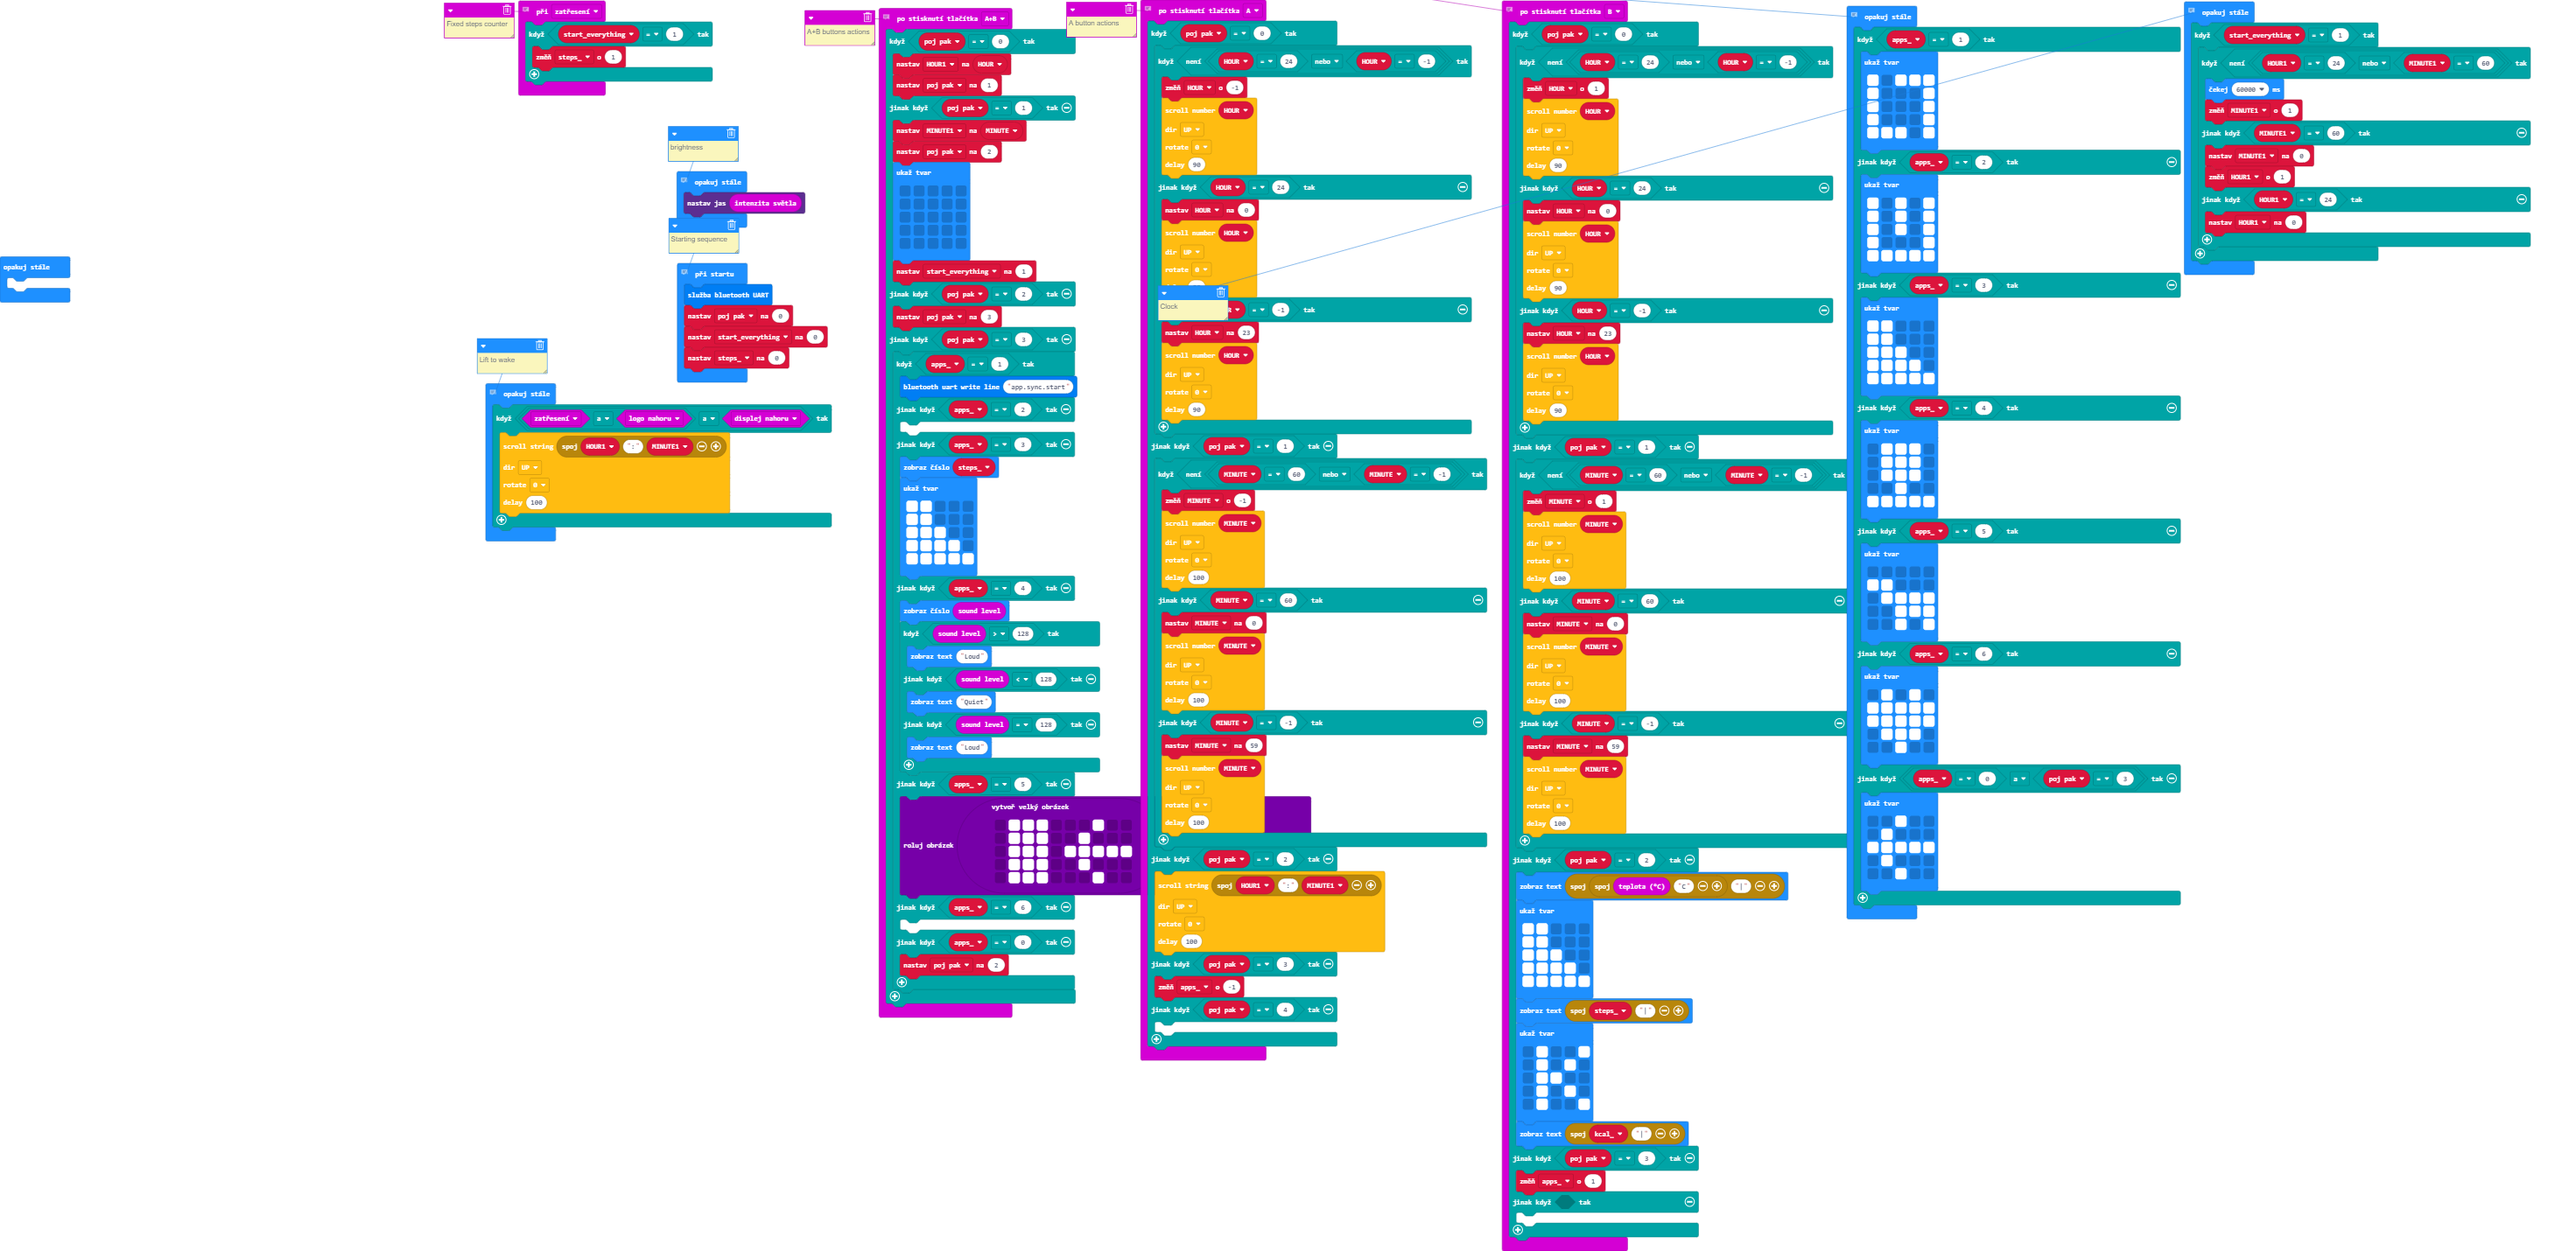
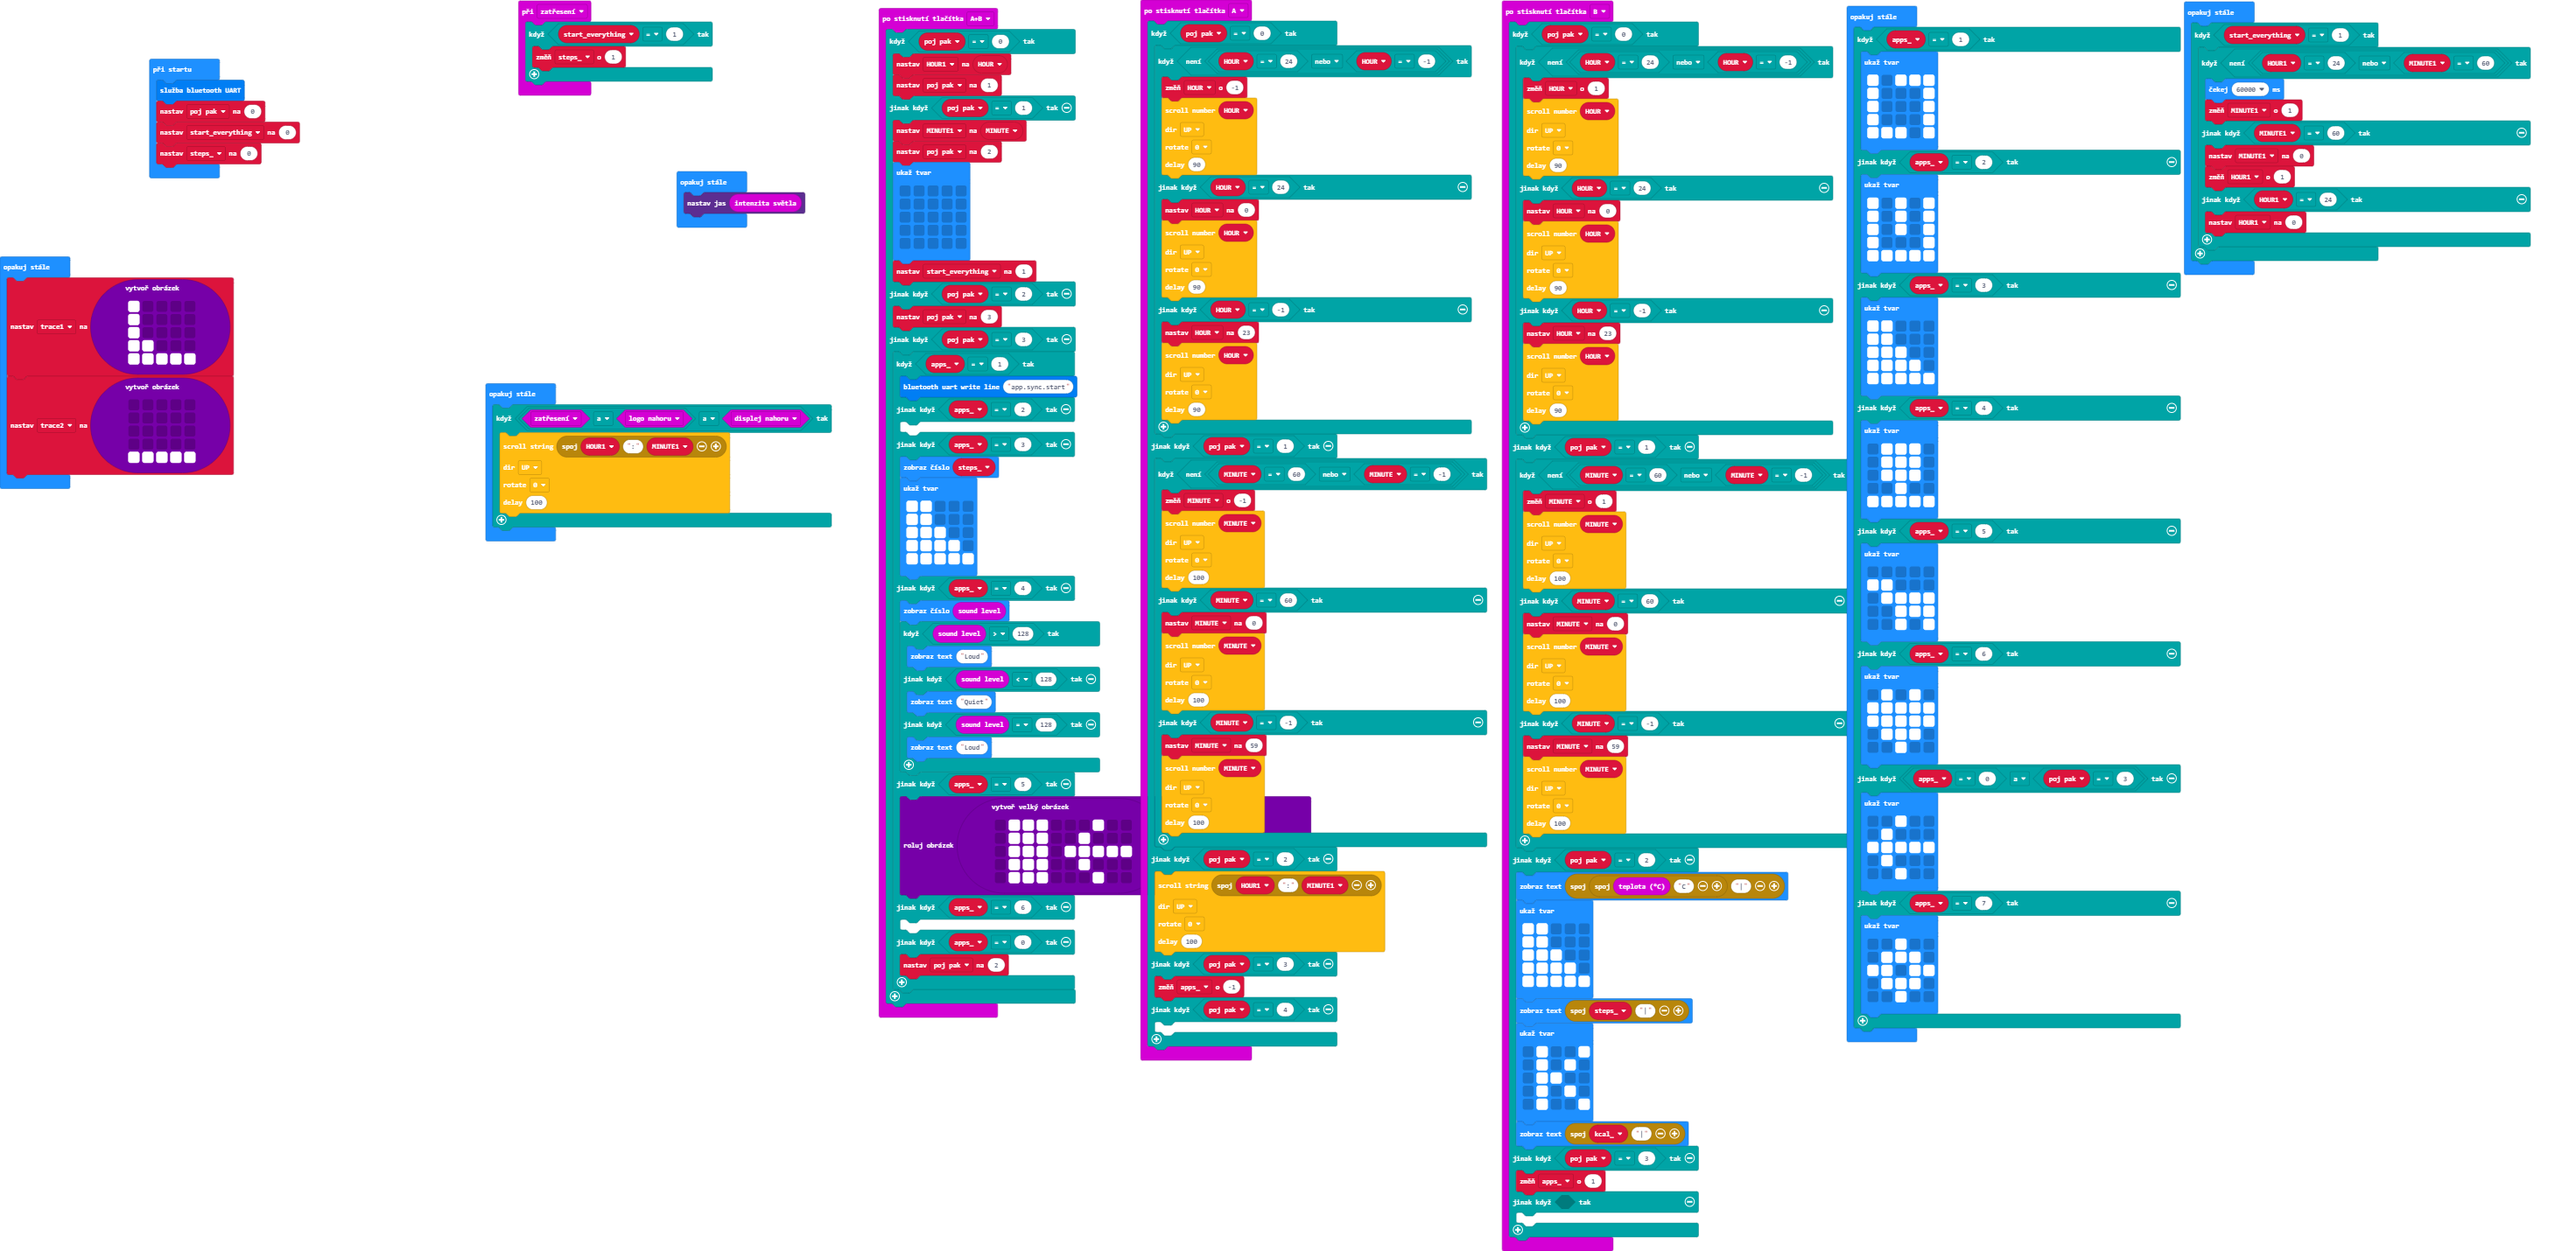
Aktualizovat main.blocks, main.ts

diff --git a/main.ts b/main.ts
@@ -1,4 +1,3 @@
-// A button actions
 input.onButtonPressed(Button.A, function () {
     if (poj_pak == 0) {
         if (!(HOUR == 24 || HOUR == -1)) {
@@ -65,7 +64,6 @@ input.onButtonPressed(Button.A, function () {
     	
     }
 })
-// A+B buttons actions
 input.onButtonPressed(Button.AB, function () {
     if (poj_pak == 0) {
         HOUR1 = HOUR
@@ -121,7 +119,6 @@ input.onButtonPressed(Button.AB, function () {
         }
     }
 })
-// B button actions
 input.onButtonPressed(Button.B, function () {
     if (poj_pak == 0) {
         if (!(HOUR == 24 || HOUR == -1)) {
@@ -200,13 +197,13 @@ input.onButtonPressed(Button.B, function () {
     	
     }
 })
-// Fixed steps counter
 input.onGesture(Gesture.Shake, function () {
     if (start_everything == 1) {
         steps_ += 1
     }
 })
-// Starting sequence
+let trace2: Image = null
+let trace1: Image = null
 let apps_ = 0
 let MINUTE1 = 0
 let HOUR1 = 0
@@ -219,7 +216,6 @@ bluetooth.startUartService()
 poj_pak = 0
 start_everything = 0
 steps_ = 0
-// App icons
 basic.forever(function () {
     if (apps_ == 1) {
         basic.showLeds(`
@@ -277,9 +273,16 @@ basic.forever(function () {
             . # . . .
             . . # . .
             `)
+    } else if (apps_ == 7) {
+        basic.showLeds(`
+            . . # . .
+            . # # # .
+            # # . # #
+            . # # # .
+            . . # . .
+            `)
     }
 })
-// Clock
 basic.forever(function () {
     if (start_everything == 1) {
         if (!(HOUR1 == 24 || MINUTE1 == 60)) {
@@ -293,14 +296,25 @@ basic.forever(function () {
         }
     }
 })
-// brightness 
 basic.forever(function () {
     led.setBrightness(input.lightLevel())
 })
 basic.forever(function () {
-	
+    trace1 = images.createImage(`
+        # . . . .
+        # . . . .
+        # . . . .
+        # # . . .
+        # # # # #
+        `)
+    trace2 = images.createImage(`
+        . . . . .
+        . . . . .
+        . . . . .
+        . . . . .
+        # # # # #
+        `)
 })
-// Lift to wake
 basic.forever(function () {
     if (input.isGesture(Gesture.Shake) && input.isGesture(Gesture.LogoUp) && input.isGesture(Gesture.ScreenUp)) {
         ScrolText.showString(
